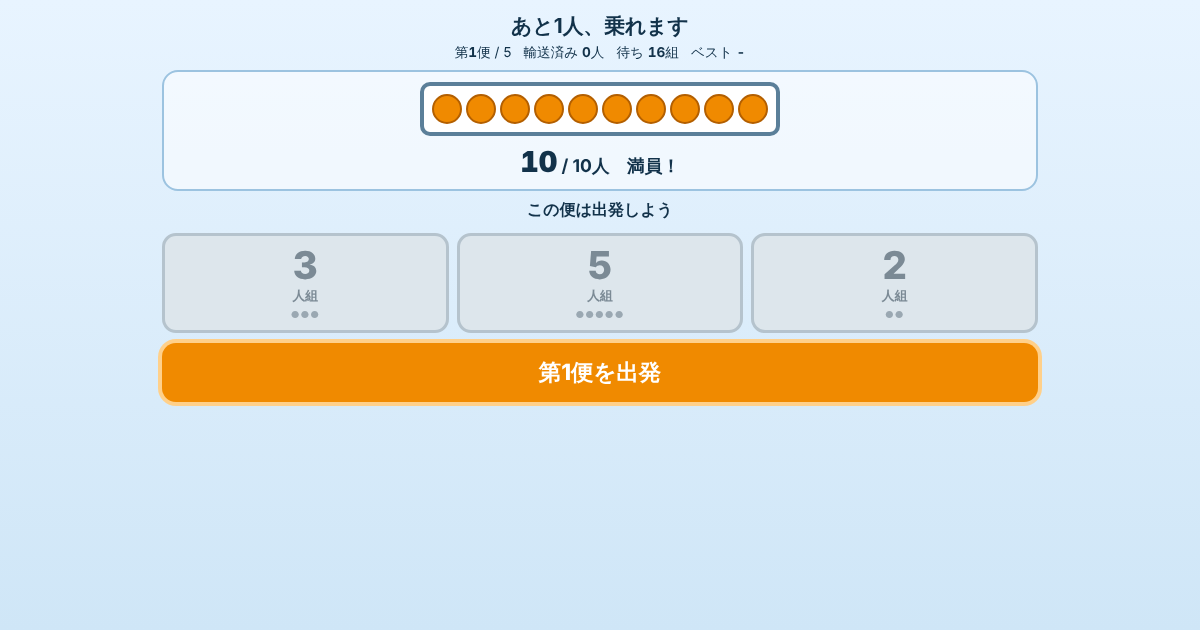
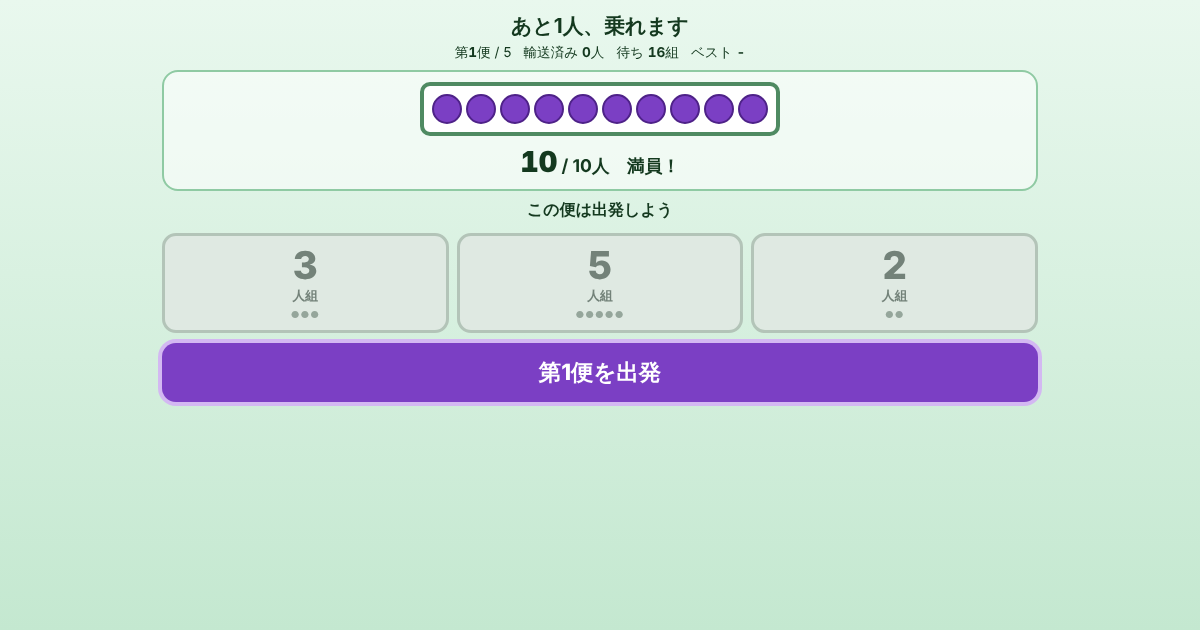
[FIX] あと1人、乗れます：配色を青×オレンジから緑×紫に変更
Claude-Session: https://claude.ai/code/session_01MokQnqphijG4vWpu5YdDZ2

diff --git a/site/games/one-more-group/style.css b/site/games/one-more-group/style.css
@@ -1,34 +1,34 @@
-:root { color-scheme: light; --bg: #e8f4ff; --fg: #12324a; --accent: #f08a00; --car: #fff; --line: #9cc3e0; }
+:root { color-scheme: light; --bg: #e9f8ee; --fg: #14391f; --accent: #7b3fc4; --car: #fff; --line: #8fcaa3; }
 * { box-sizing: border-box; }
 html, body { margin: 0; min-height: 100%; overflow-x: hidden; }
-body { background: linear-gradient(#e8f4ff, #cfe6f7); color: var(--fg); font-family: system-ui, -apple-system, "Hiragino Sans", sans-serif; }
+body { background: linear-gradient(#e9f8ee, #c4e8d0); color: var(--fg); font-family: system-ui, -apple-system, "Hiragino Sans", sans-serif; }
 .game { max-width: 520px; margin: 0 auto; padding: 12px 12px 4px; text-align: center; }
 h1 { margin: 0; font-size: 1.3rem; }
 .status { margin: 4px 0 8px; display: flex; flex-wrap: wrap; justify-content: center; gap: 4px 12px; font-size: .85rem; }
 .status b { font-variant-numeric: tabular-nums; }
 .lift { background: #fff8; border-radius: 16px; padding: 10px; border: 2px solid var(--line); }
-.car { position: relative; margin: 0 auto; max-width: 360px; border: 4px solid #5b7f99; border-radius: 10px; background: var(--car); padding: 8px; transition: transform .45s ease-in, opacity .45s; }
+.car { position: relative; margin: 0 auto; max-width: 360px; border: 4px solid #4f8a62; border-radius: 10px; background: var(--car); padding: 8px; transition: transform .45s ease-in, opacity .45s; }
 .car.leaving { transform: translateY(-60px); opacity: 0; }
 .slots { display: grid; grid-template-columns: repeat(10, 1fr); gap: 4px; }
-.slot { aspect-ratio: 1; border-radius: 50%; background: #e3edf4; border: 2px dashed #b5cbdb; }
-.slot.on { background: var(--accent); border: 2px solid #b35f00; animation: pop .2s ease-out; }
+.slot { aspect-ratio: 1; border-radius: 50%; background: #e1f0e6; border: 2px dashed #a9d0b6; }
+.slot.on { background: var(--accent); border: 2px solid #4e2288; animation: pop .2s ease-out; }
 @keyframes pop { from { transform: scale(.3); } to { transform: scale(1); } }
 .load { margin: 8px 0 0; font-size: 1.1rem; font-weight: 700; }
 .load b { font-size: 1.8rem; font-variant-numeric: tabular-nums; }
 .msg { min-height: 1.6em; margin: 8px 0; font-weight: 700; }
 .groups { display: grid; grid-template-columns: repeat(3, 1fr); gap: 8px; }
 button { font: inherit; border: 0; cursor: pointer; touch-action: manipulation; border-radius: 14px; font-weight: 800; }
-.group { padding: 10px 4px; background: #fff; border: 3px solid #2b7bb9; color: #12324a; min-height: 96px; display: flex; flex-direction: column; align-items: center; justify-content: center; gap: 4px; }
+.group { padding: 10px 4px; background: #fff; border: 3px solid #1f8a4c; color: #14391f; min-height: 96px; display: flex; flex-direction: column; align-items: center; justify-content: center; gap: 4px; }
 .group .n { font-size: 2.4rem; line-height: 1; font-variant-numeric: tabular-nums; }
 .group .u { font-size: .8rem; }
-.group .dots { font-size: .6rem; letter-spacing: 1px; color: #2b7bb9; word-break: break-all; }
-.group:disabled { background: #dde6ec; border-color: #b5c3cd; color: #7b8a95; cursor: not-allowed; }
-.group:disabled .dots { color: #9aa8b2; }
+.group .dots { font-size: .6rem; letter-spacing: 1px; color: #1f8a4c; word-break: break-all; }
+.group:disabled { background: #dfe9e2; border-color: #b3c4b8; color: #738279; cursor: not-allowed; }
+.group:disabled .dots { color: #95a69b; }
 .group:empty, .group.empty { visibility: hidden; }
 .go { width: 100%; margin-top: 10px; padding: 14px; font-size: 1.4rem; background: var(--accent); color: #fff; }
 .go:disabled { background: #c9ced2; cursor: not-allowed; }
-.go.hint { box-shadow: 0 0 0 4px #ffd08a; }
-button:focus-visible { outline: 3px solid #12324a; outline-offset: 2px; }
+.go.hint { box-shadow: 0 0 0 4px #d3b8f2; }
+button:focus-visible { outline: 3px solid #14391f; outline-offset: 2px; }
 .result { margin-top: 12px; background: #fff; border-radius: 16px; padding: 12px; border: 2px solid var(--line); }
 .result[hidden], .newbest[hidden] { display: none; }
 .big { margin: 0; font-size: 1.1rem; } .big b { font-size: 2.6rem; color: var(--accent); }
@@ -36,7 +36,7 @@ button:focus-visible { outline: 3px solid #12324a; outline-offset: 2px; }
 .luck { font-size: .8rem; margin: 6px 0; opacity: .8; }
 .row { display: flex; flex-wrap: wrap; gap: 8px; justify-content: center; }
 .row button { padding: 10px 16px; background: var(--accent); color: #fff; }
-.row .alt { background: #2b7bb9; }
+.row .alt { background: #1f8a4c; }
 .arcade-link { text-align: center; padding: 16px; font-size: .75rem; opacity: .6; }
 .arcade-link a { color: inherit; }
 body.og .game { max-width: 900px; }
